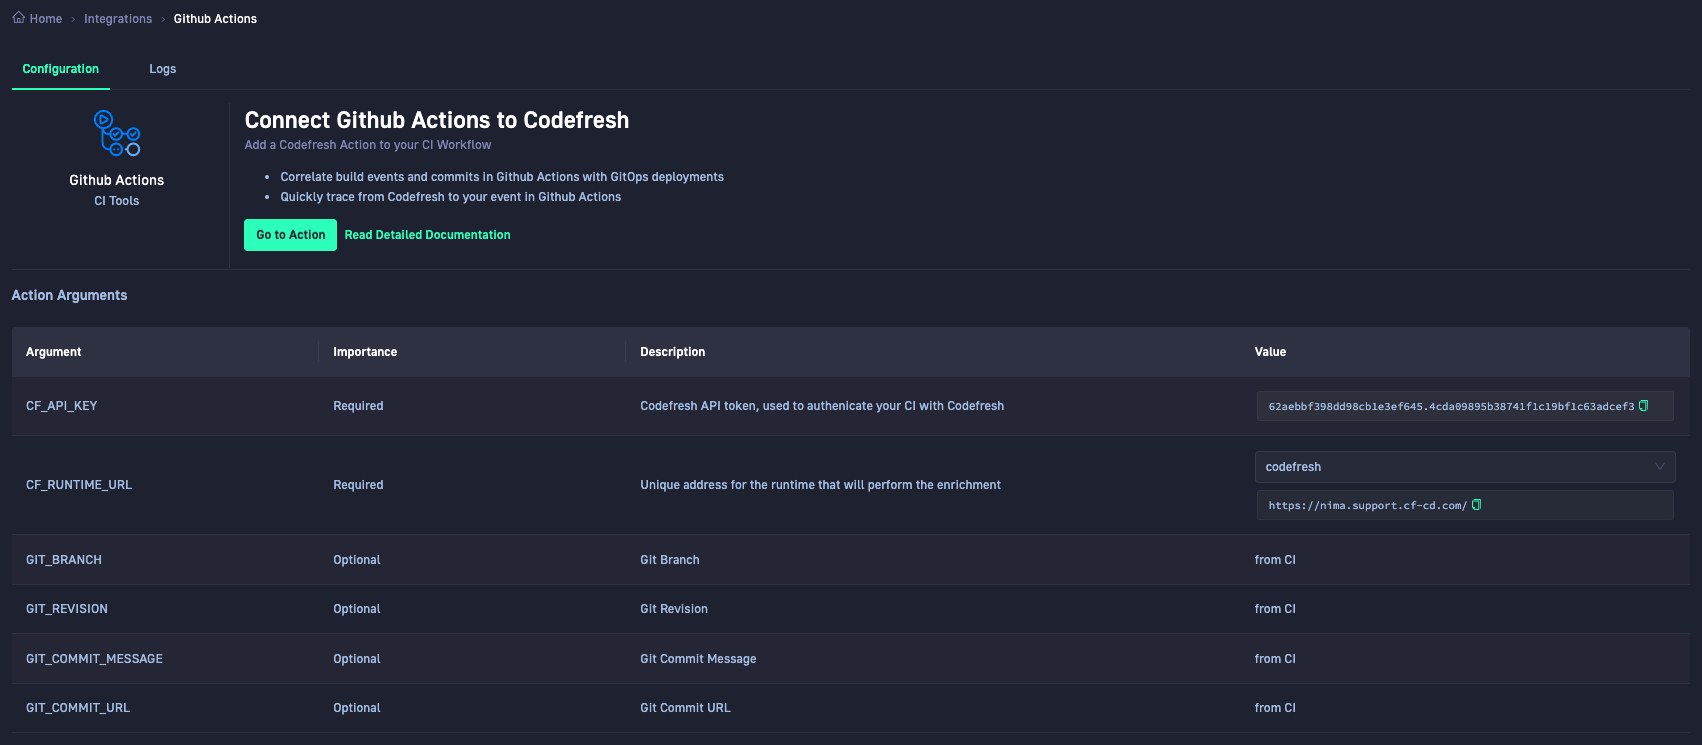
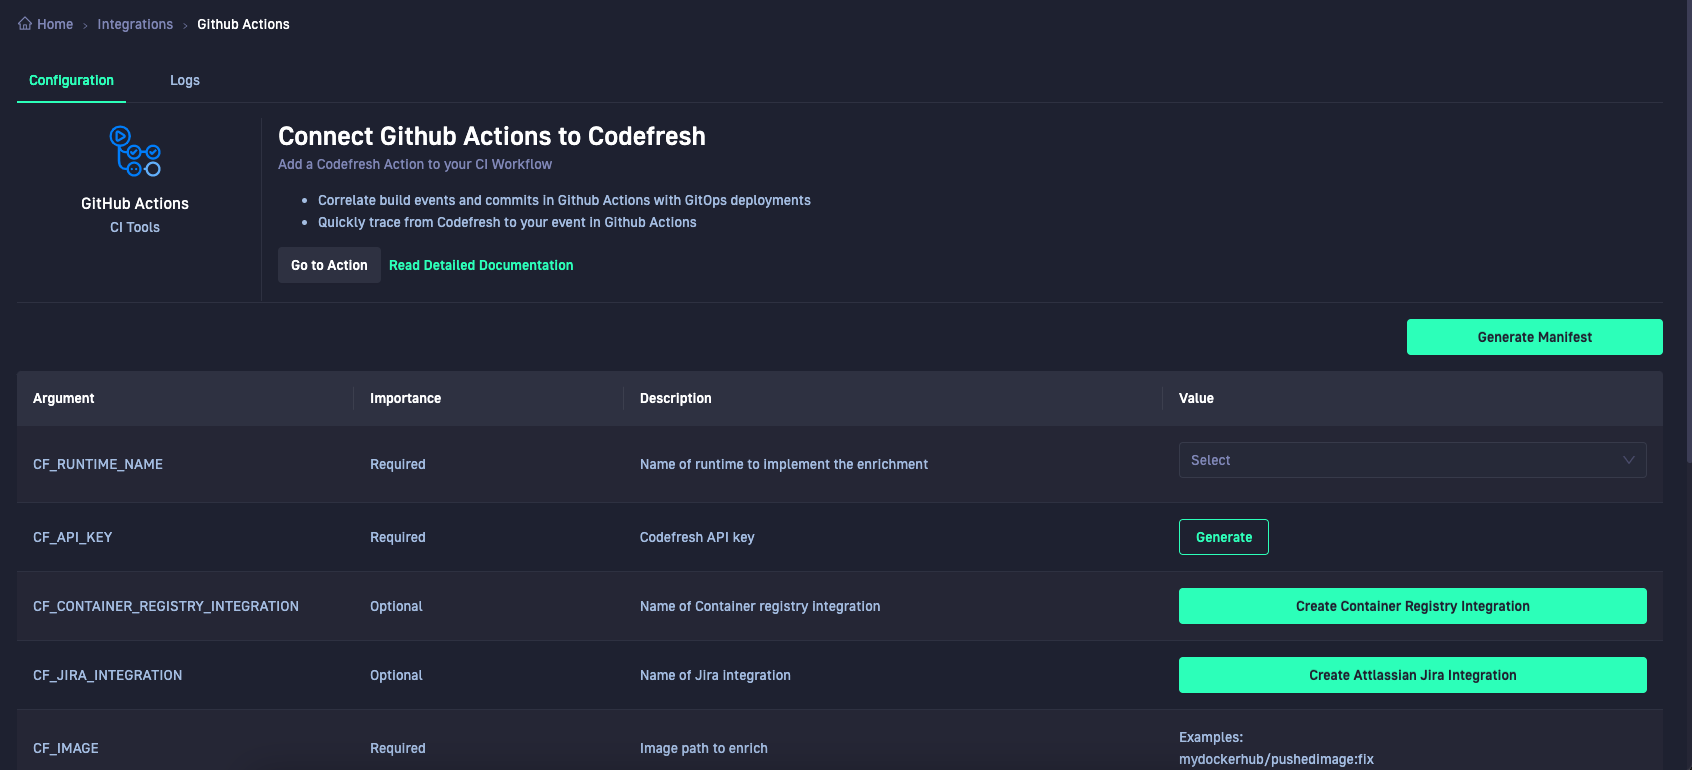
Update github-actions.md (#204)
* Update github-actions.md

Updated argument list and added Generate manifest to procedure

* Update github-actions.md

* Update github-actions.md

Content edits and replaced example

* Update github-actions.md

Updated runtime release version

* Update github-action-int-settings.png

Updated version of image

* Update github-actions.md

* Update github-actions.md

* Update github-actions.md

* Update github-actions.md

* Update github-actions.md

* Update github-actions.md

* Update github-actions.md

* Update github-actions.md

Updated GitHub token description

diff --git a/_docs/integrations/github-actions.md b/_docs/integrations/github-actions.md
@@ -1,63 +1,35 @@
 ---
 title: "GitHub Actions"
-description: "Connect your GitHub Actions pipelines to Codefresh"
+description: ""
 group: integrations
 toc: true
 ---
 
-Codefresh Hosted GitOps can be used with any popular Continuous Integration (CI) solution, not just with Codefresh CI.
+Use Codefresh Hosted GitOps with any popular Continuous Integration (CI) solution, not just with Codefresh CI.  
+GitHub Actions is one of the third-party CI solutions that you can connect to Codefresh for deployment with image reporting and enrichment. 
 
-You can connect any external CI solution to Codefresh, such as GitHub Actions for example, to take care of common CI tasks such as building/testing/scanning source code, with Codefresh Hosted GitOps still responsible for the deployment, including image enrichment and reporting.  
-See [Image enrichment with integrations]({{site.baseurl}}/docs/integrations/image-enrichment-overview/).
+For information on how to use the image reporting action in your GitHub Action pipeline and how to configure the integration, see [CI Integrations]({{site.baseurl}}/docs/integrations/ci-integrations/).
 
-
-### Codefresh Marketplace GitHub Action 
-
-To support the integration between GitHub Actions and Codefresh, we have created a dedicated action in the [Codefresh marketplace](https://github.com/marketplace/actions/codefresh-report-image){:target="\_blank"}. The action combines image enrichment and reporting through integrations with Jira, and container registries such as DockerHub or Quay.
-
-Use the action in the following manner:
-
-1. Create a GitHub Actions pipeline like you normally do.
-1. Use any existing CI actions for compiling code, running unit tests, security scanning etc.
-1. Place the final action in the pipeline as the "report image" action provided by Codefresh, copying the arguments and values from the GitHub Actions integration you set up in Codefresh.
-1. When the pipeline completes execution, Codefresh retrieves the information on the image that was built and its metadata (essentially the same
-data that Codefresh CI would send automatically).
-1. View the image in Codefresh in the [Images dashboard]({{site.baseurl}}/docs/deployment/images/), and in any [GitOps deployment]({{site.baseurl}}/docs/deployment/applications-dashboard/) in which it is used.
-
- 
 
 ### Codefresh-GitHub Action integration arguments
-The table describes the arguments required for GitHub Action-Codefresh integration. 
+The table describes the arguments required to connect GitHub Action to Codefresh. 
 
 
  {: .table .table-bordered .table-hover}
 | Argument  | Description     | Required/Optional/Default |
 | ---------- |  -------- | ------------------------- |
-| `CF_HOST`                      | The URL to the cluster with the Codefresh runtime to integrate with. If you have more than one runtime, select the runtime from the list. Codefresh displays the URL of the selected runtime cluster.  | Required  |
-| `CF_API_KEY`                   | The API key to authenticate the GitHub Actions user to Codefresh. Generate the key for the GitHub Action. | Required  |
-| `CF_CONTAINER_REGISTRY_INTEGRATION` | The name of the registry integration created in Codefresh to use with the GitHub Action.  | Optional  |
-| `CF_JIRA_INTEGRATION`               | The name of the Jira integration created in Codefresh to use for the GitHub Action. Relevant only if Jira enrichment is required for the image. If you don't have a Jira integration, create a new integration (see [Jira integration]({{site.baseurl}}/docs/integrations/jira/)). When defined, `CF_ENRICHERS` must include `jira`.  | Optional  |
-| `CF_IMAGE`                    | The name of the image to report to Codefresh.  | Required  |
-| `CF_ENRICHERS`                | The type or types of enrichment information to retrieve and add to the image. By default, empty. When enrichment information is required, can be either `git`, `jira`, or both.  When an enricher type is defined, you must also define the required fields for the enrichment-type for Codefresh to retrieve information.  | Default  |
-| `CF_WORKFLOW_URL`            | The reported URL of the workflow that builds the image.  | Optional  |
+| `CF_HOST`                      | _Deprecated from v 0.0.460 and higher._ Recommend using `CF_RUNTIME_NAME` instead. {::nomarkdown}<br><span style="font-family: var(--font-family-monospace); font-size: 87.5%; color: #ad6800; background-color: #fffbe6">CF_HOST</span> has been deprecated because the URL is not static, and any change can fail the enrichment.<br><br>  The URL to the cluster with the Codefresh runtime to integrate with. If you have more than one runtime, select the runtime from the list. Codefresh displays the URL of the selected runtime cluster.{:/}   | Required  |
+| `CF_RUNTIME_NAME`              | The name of the runtime to use for this integration. Select from the list of runtimes. | Required  |
+| `CF_API_KEY`                   | The API key to authenticate the GitHub Actions user to Codefresh. Generate the key for the GitHub Action. {::nomarkdown}<br>Enter this token in GitHub Actions <a href="https://docs.github.com/en/actions/security-guides/encrypted-secrets">as a secret</a> with the name <span style="font-family: var(--font-family-monospace); font-size: 87.5%; color: #ad6800; background-color: #fffbe6">CF_API_KEY</span>. You can then reference it in all GitHub pipelines as you would any other secret.{:/}| Required  |
+| `CF_CONTAINER_REGISTRY_INTEGRATION` | The name of the container registry integration created in Codefresh to use for the report image action.  To create a container registry integration if you don't have one, click **Create Container Registry Integration**, and then configure the settings. | Optional  |
+| `CF_JIRA_INTEGRATION`               | The name of the Jira integration created in Codefresh to use for the report image action. Relevant only if Jira enrichment is required for the image. If you don't have a Jira integration, click **Create Atlassian Jira Integration** and configure settings (see [Jira integration]({{site.baseurl}}/docs/integrations/jira/)).  | Optional  |
+| `CF_IMAGE`                    | The path to the image to enrich and report to Codefresh.  | Required  |
 | `CF_WORKFLOW_NAME`           | The name assigned to the workflow that builds the image. When defined, the name is displayed in the Codefresh platform. Example, `Staging step` | Optional  |
-| `CF_GITHUB_TOKEN`            | The token for Git integration.  | Required  |
-| `CF_JIRA_PROJECT_PREFIX`     | Relevant only when `CF_ENRICHERS` includes `jira`. The Jira project prefix that identifies the ticket number for which to retrieve information.  | Optional  |
-| `CF_JIRA_MESSAGE`            | Relevant only when `CF_ENRICHERS` includes `jira`. The Jira message for the `CF_JIRA_PROJECT_PREFIX` to add to the image.  | Optional  |
-
-
-
-### Connect a GitHub Action in Codefresh
-
-Add a GitHub Action to Codefresh with the required arguments. 
-1. In the Codefresh UI, go to [Integrations](https://g.codefresh.io/2.0/account-settings/integrations){:target="\_blank"}.
-1. Select **GitHub Actions**, and then click **Configure**.
-1. Define the arguments for the GitHub Action. [Review GitHub Action arguments](#codefresh-github-action-integration-arguments). 
-  * For the **CF_API_KEY**, click **Generate**. Note down the token generated.
-  * To create a container registry integration for DockerHub if you don't have one, click **Create Container Registry Integration**, and then configure the settings. See [Docker Hub integration]({{site.baseurl}}/docs/integrations/docker-hub/).
-  * To create a Jira integration, click **Create Atlassian Jira Integration**, and then configure the settings. See [Jira integration]({{site.baseurl}}/docs/integrations/jira/).
-1. Enter this token in GitHub Actions [as a secret](https://docs.github.com/en/actions/security-guides/encrypted-secrets) with the name `CF_API_KEY`.  
-  Now you can reference it in all GitHub pipelines as you would any other secret.
+| `CF_GIT_BRANCH`              | The Git branch with the commit.  | Required  |
+| `CF_GITHUB_TOKEN`            | Github authentication token -> defaults to `{{secrets.GITHUB_TOKEN}}`. | Required  |
+| `CF_JIRA_PROJECT_PREFIX`     | Relevant only when `CF_JIRA_INTEGRATION` is defined. The Jira project prefix that identifies the ticket number for which to retrieve information.  | Required  |
+| `CF_JIRA_MESSAGE`            | Relevant only when `CF_JIRA_INTEGRATION` is defined. The Jira issue (the issue ID and the string describing the issue) for the `CF_JIRA_PROJECT_PREFIX` to associate with the image.  | Required  |
+| `CF_JIRA_FAIL_ON_NOT_FOUND`            | Relevant only when `CF_JIRA_INTEGRATION` is defined. The report image action when the `CF_JIRA_MESSAGE` is not found. When set to `true`, the report image action is failed.  | Required  |
 
 {% include image.html 
 lightbox="true" 
@@ -68,8 +40,7 @@ caption="GitHub Action integration for image enrichment"
 max-width="50%"
 %}
 
-{:start="5"}
-1. Copy the arguments and their values to the GitHub Action pipeline. See the example below for guidelines.
+For how-to instructions, see [Connect a CI platform/tool to Codefresh]({{site.baseurl}}/docs/integrations/ci-integrations/#connect-a-thrird-party-ci-tool-to-Codefresh).  
 
 ### GitHub Actions pipeline example
 
@@ -80,6 +51,7 @@ Because a Jira integration account is configured in Codefresh, the step needs on
 
 {% highlight yaml %}
 {% raw %}
+
 name: Docker Image CI
 
 on:
@@ -108,29 +80,41 @@ jobs:
           echo "Image should be accessible to your local machine (after docker login) by:"
           echo "docker pull $CF_IMAGE"
           docker pull $CF_IMAGE
-          echo "On the next step, the report image would use the integration to pull information on the reported image, and using the specified enrichers."
+          echo "On the next step, the report image would use the integration to pull information on the reported image, using the specified enrichers."
       - name: report image by action
         with:
-          # Specify cluster app-proxy
-          CF_HOST: "${{ secrets.CF_RUNTIME_HOST }}"
-          CF_API_KEY: ${{ secrets.USER_TOKEN }}
-          # use image registry integration - the name of the integration used for pulling information on the image.
-          CF_CONTAINER_REGISTRY_INTEGRATION: "docker"
+          # Name of runtime to implement the enrichment
+          CF_RUNTIME_NAME: 'codefresh-hosted'
 
-          # report image 
+          # Codefresh API key !! Committing a plain text token is a security risk. We highly recommend using encrypted secrets. !!
+          # Documentation - https://docs.github.com/en/actions/security-guides/encrypted-secrets
+          CF_API_KEY: ${{ secrets.USER_TOKEN }}
+
+          # Name of Container registry integration
+          CF_CONTAINER_REGISTRY_INTEGRATION: 'docker'
+
+          # The git branch which is related for the commit
+          CF_GIT_BRANCH: 'main'
+
+          # Image path to enrich 
           CF_IMAGE: ${{ secrets.DOCKERHUB_USERNAME }}/build-by-github-action:0.0.1
-          # integration with
-          CF_ENRICHERS: "jira, git"
-          # use githug token
+
+          # GitHub Access token !! Committing a plain text token is a security risk. We highly recommend using encrypted secrets. !!
+          # Documentation - https://docs.github.com/en/actions/security-guides/encrypted-secrets
           CF_GITHUB_TOKEN: ${{ secrets.CF_GITHUB_TOKEN }}    
-          # use jira integration - jira is the name of the integration created in codefresh argo platform.
-          CF_JIRA_INTEGRATION: "jira" 
-          CF_JIRA_MESSAGE: "A message with embedded issue ( i.e. CR-11027 ) that would be use query jira for the ticket "
-          # a specified prefix for finding the jira issue 
+
+          # Name of Jira integration
+          CF_JIRA_INTEGRATION: 'jira' 
+
+         # String starting with the issue ID to associate with image
+          CF_JIRA_MESSAGE: 'CR-11027'
+
+          # Jira project filter
           CF_JIRA_PROJECT_PREFIX: "CR"
-        uses: codefresh-io/codefresh-report-image@0.0.62
+        uses: codefresh-io/codefresh-report-image@latest
         
-{% endraw %}'
+        
+{% endraw %}
 {% endhighlight yaml %}
 
 ### GitHub Action logs
@@ -152,7 +136,7 @@ max-width="50%"
 
 The Run column includes the link to the build files for the actions.  
 
-Here are examples of the build file for the GitHub Action (top) and of the Codefresh report image step in the action (below).
+Here are examples of the build file for the GitHub Action (top) and of the Codefresh report image step in the action (down).
 
 {% include image.html 
 lightbox="true" 
@@ -173,7 +157,9 @@ max-width="50%"
 %}
 
 
-### Related articles  
+### Related articles
+[Docker Hub integration]({{site.baseurl}}/docs/runtime/dockerhub/)
+[Quay integration]({{site.baseurl}}/docs/runtime/quay/)  
 [Add Git sources to runtimes]({{site.baseurl}}/docs/runtime/git-sources/)  
 [Shared configuration repo]({{site.baseurl}}/docs/reference/shared-configuration)
 
